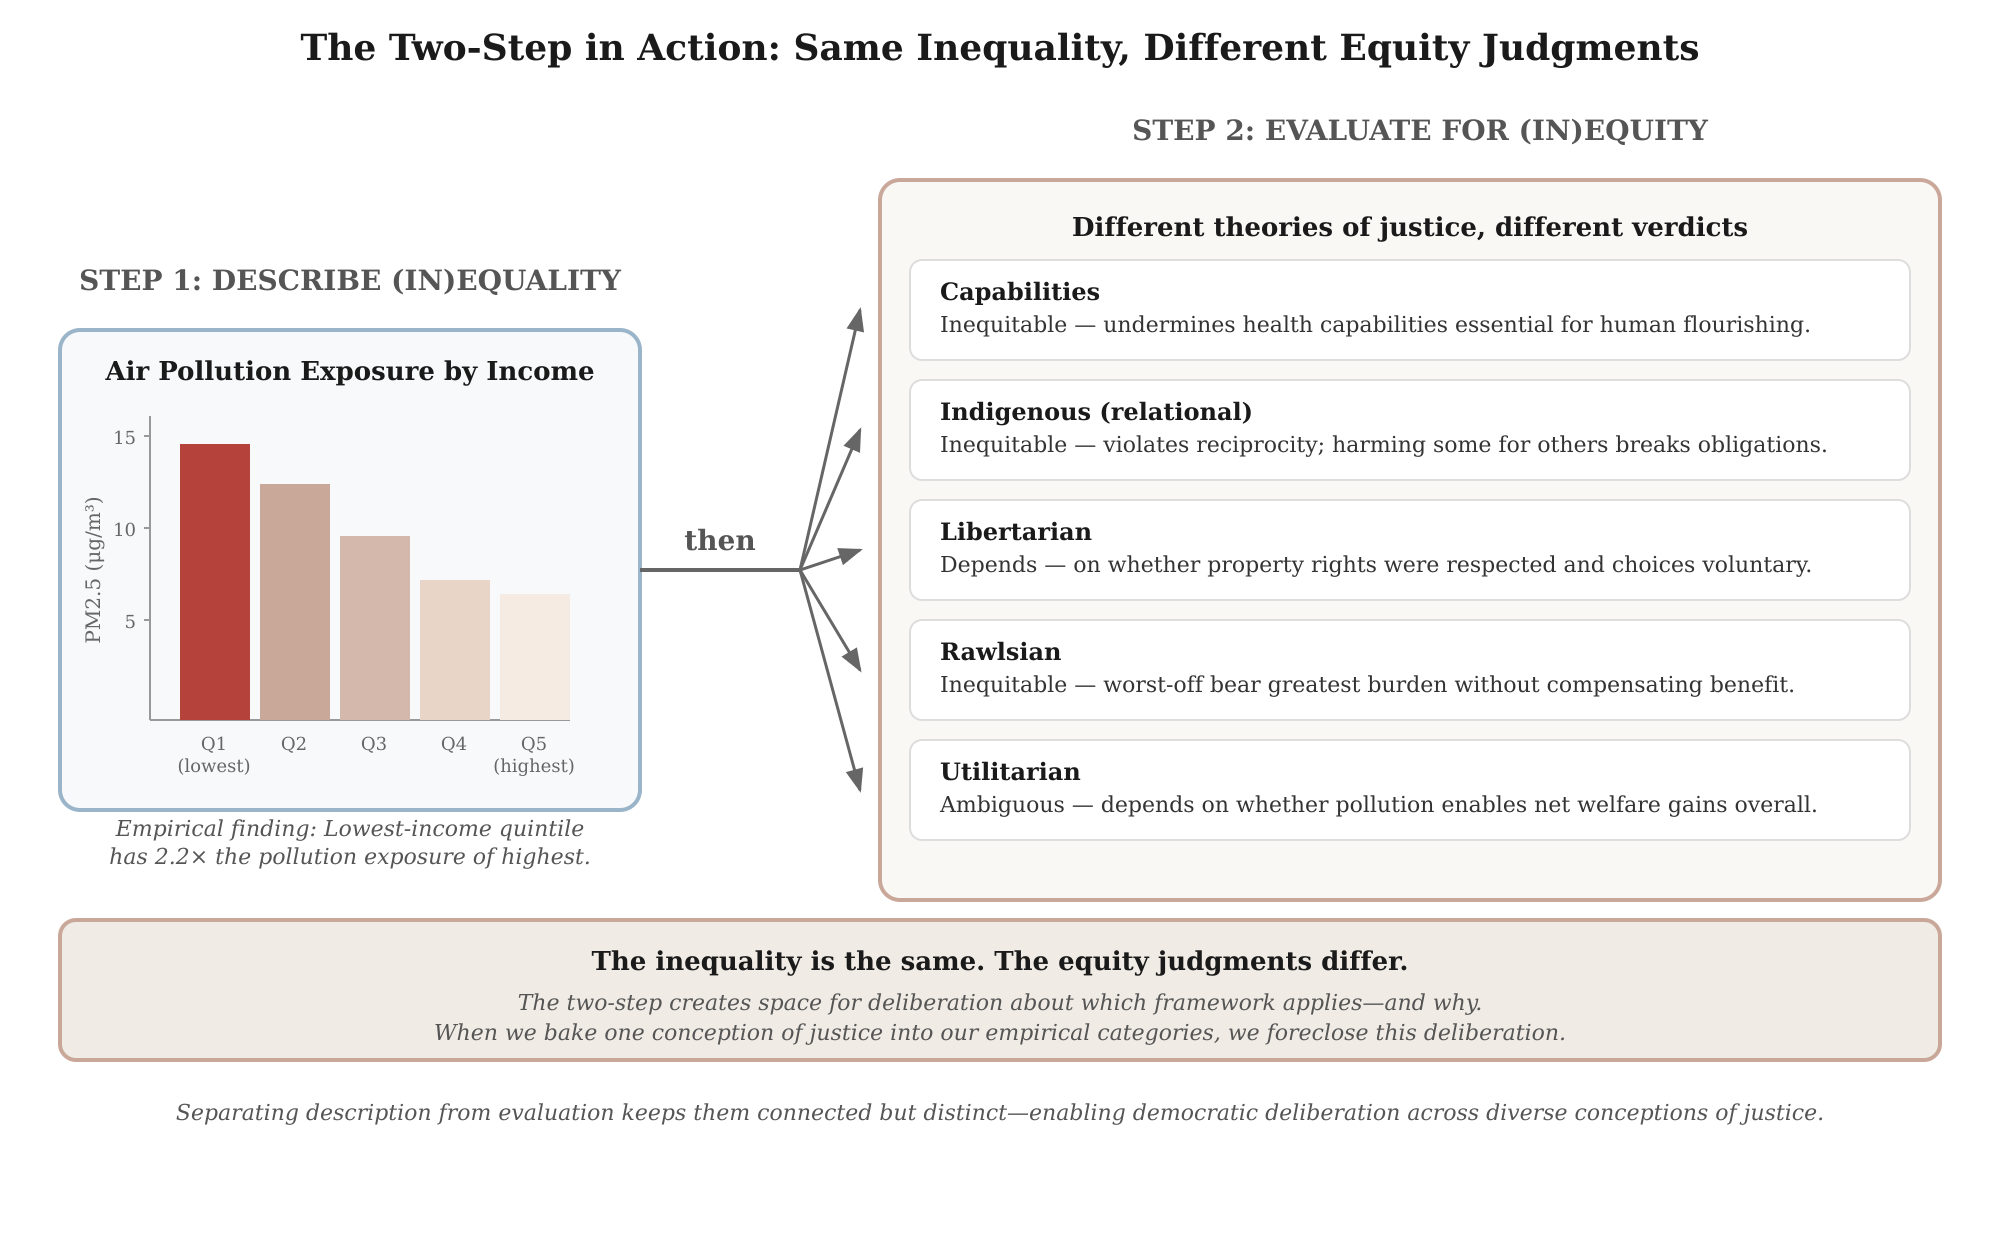
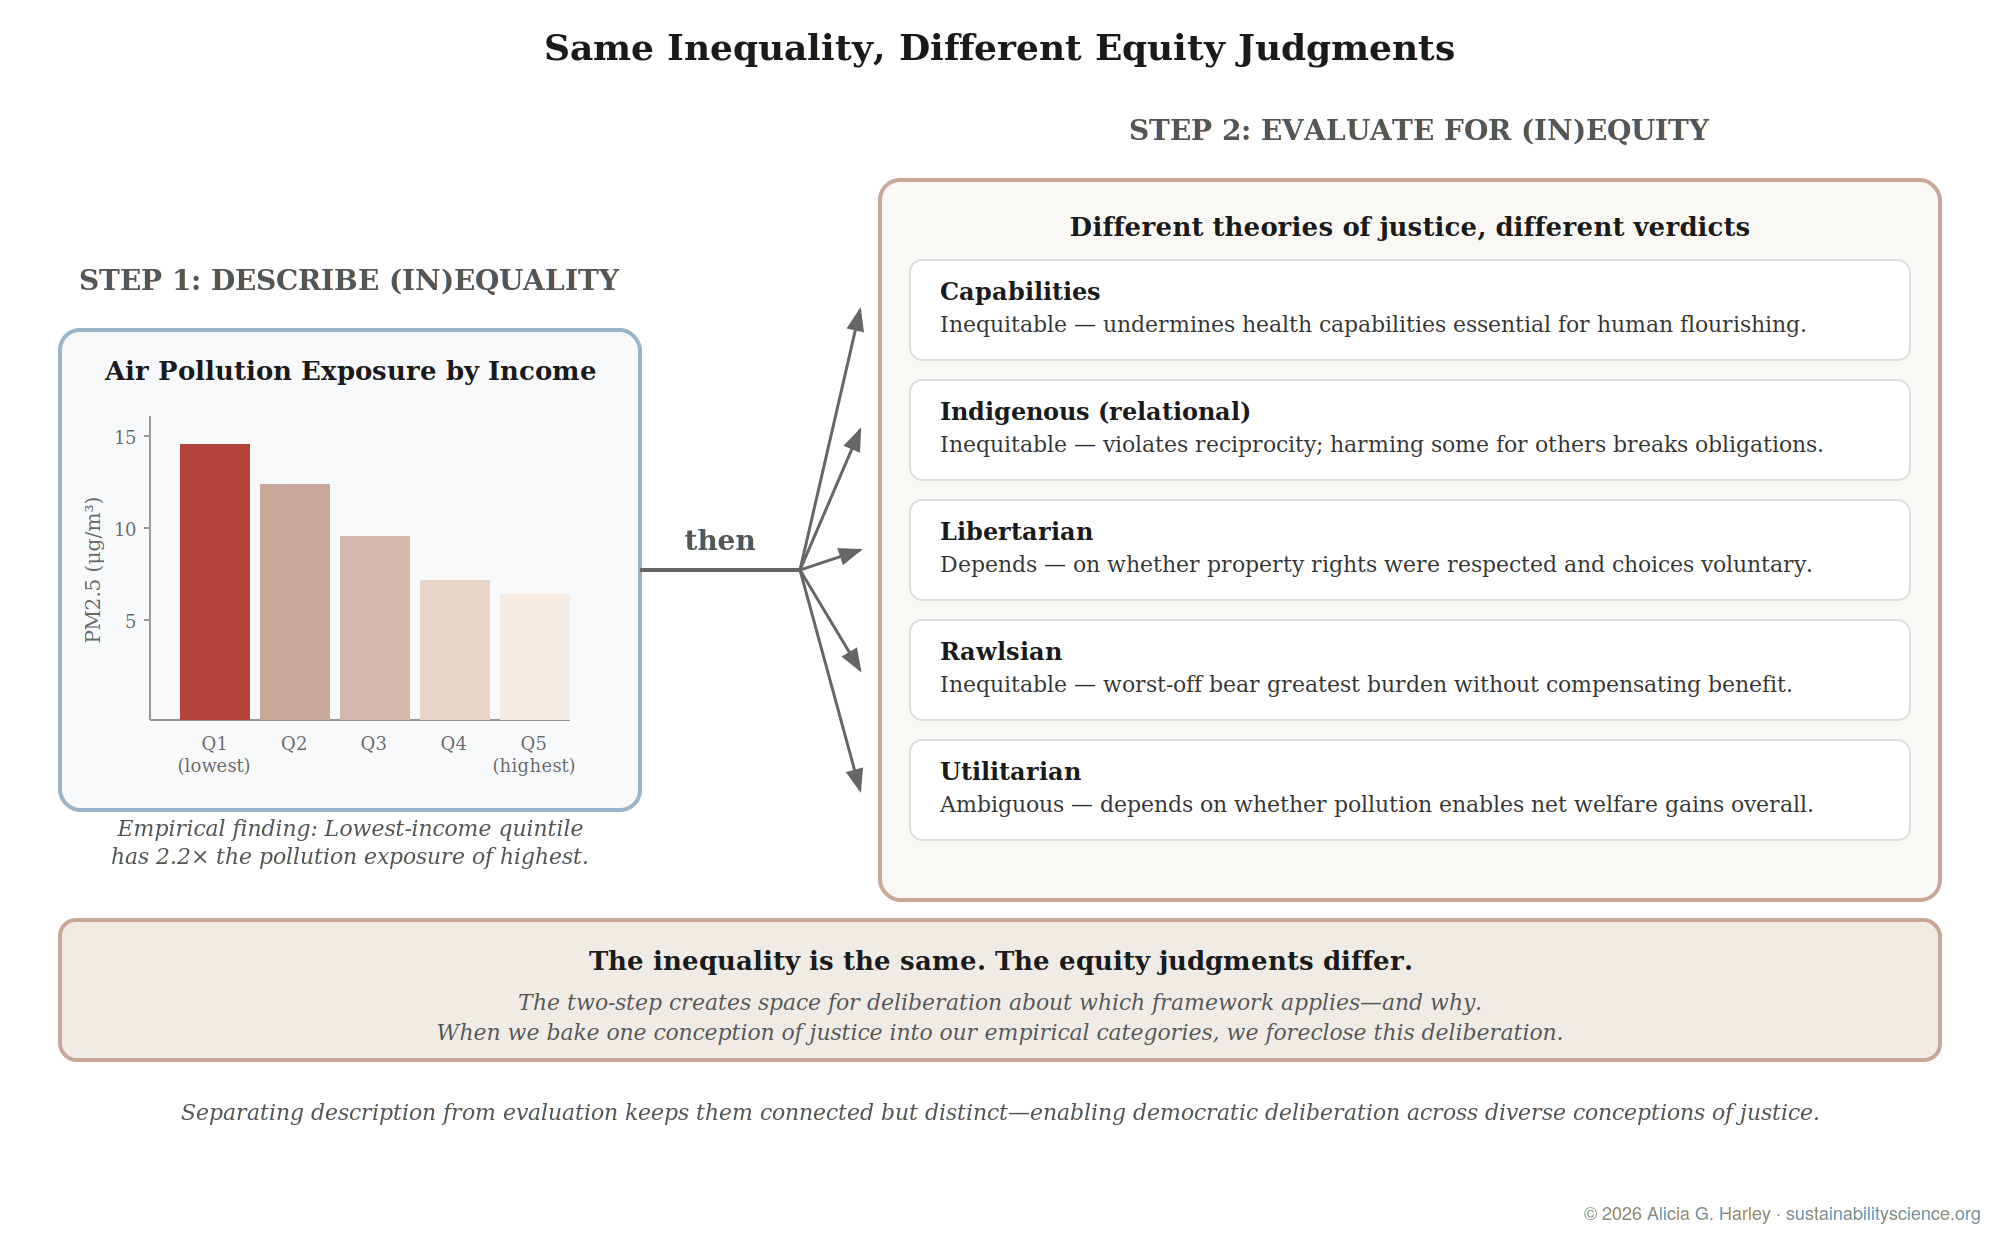
images fixes inequlaity inequity blog

diff --git a/theorist/_posts/2026-01-05-inequality-inequity.md b/theorist/_posts/2026-01-05-inequality-inequity.md
@@ -113,7 +113,7 @@ Causal conflation asks: *What causes what?* The answer assumes a fixed relations
 
 <figure>
   <img src="{{ site.baseurl }}/assets/images/inequality-inequity.svg" alt="Diagram of three framings of inequality and inequity, each posing a different question">
-  <figcaption>Figure 2: Three Framings, Three Different Questions.</figcaption>
+  <figcaption>Figure 2: Three framings of inequality vs. inequity, each asking a different question.</figcaption>
 </figure>
 
 These framings are all in circulation leaving a tangled muddle of confusion for anyone trying to quickly write a report or develop a research project that engages issues of distribution, justice and fairness. The result is often conceptual muddle. Ive been googling the relationship between inequality and inequity now for several weeks and Google's AI overview is constantly shifting slightly. One day the AI overview might assert that inequity causes inequality and another day that inequities are a subset of inequalities. Froehle's image gets paired with causal claims it never made. Even legal scholars have noted the terminological instability; Martha Minow's survey of the equality/equity debate in law and policy finds definitions shifting across contexts without clear resolution (Minow, 2021).
